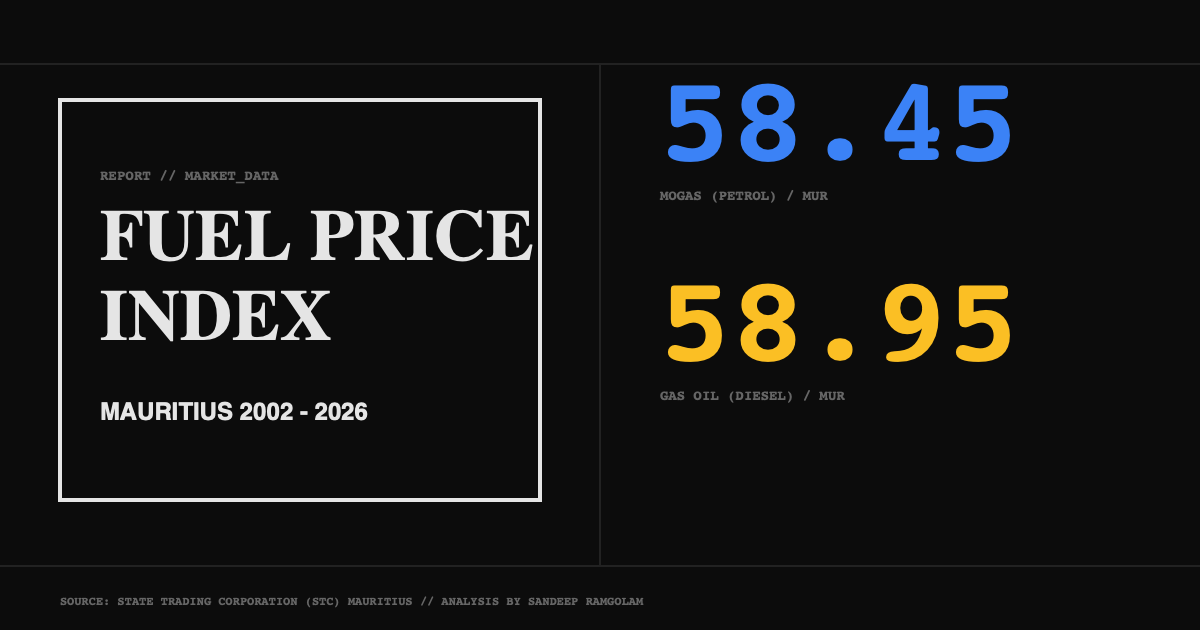
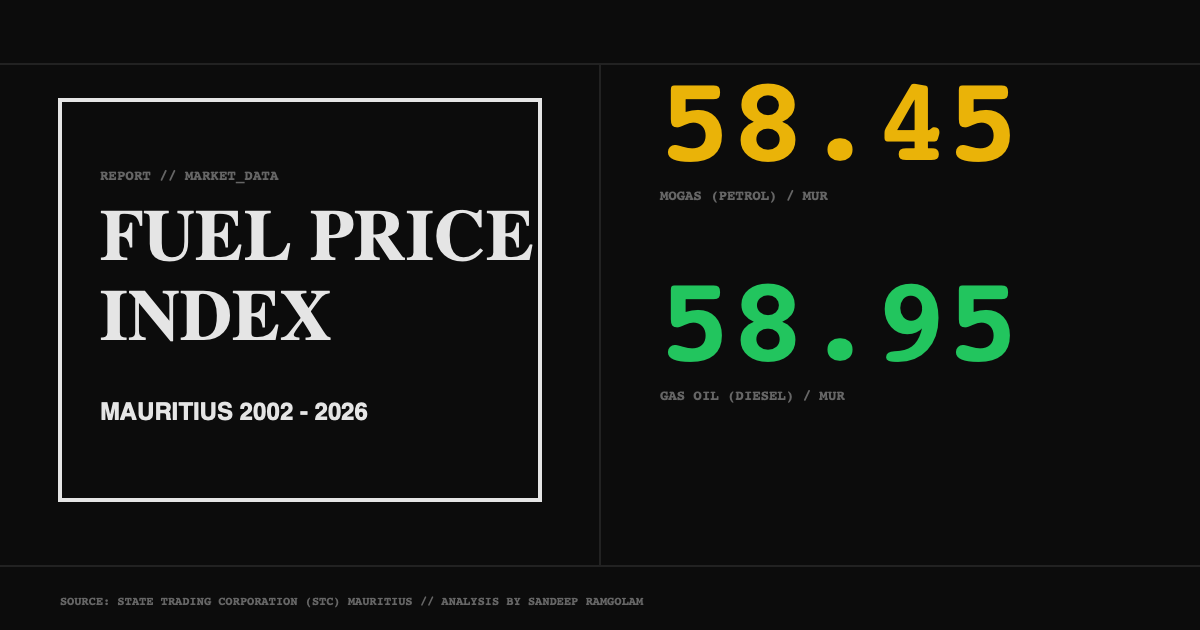
Standardize fuel colors for Mauritius
- Update Mogas (Petrol) to Yellow (#eab308) and Gas Oil (Diesel) to Green (#22c55e) to match local pump standards.
- Reassign Brent Crude to Blue (#2563eb) to maintain visual contrast.
- Synchronize colors across global styles, dark mode, and social OG images.

diff --git a/app/app.vue b/app/app.vue
@@ -97,11 +97,11 @@ function applyTheme() {
   --row-hover: #fcfcfc;
   --active-btn-bg: #111111;
   --active-btn-text: #ffffff;
-  --petrol-color: #2563eb;
-  --diesel-color: #d97706;
+  --petrol-color: #eab308;
+  --diesel-color: #22c55e;
   --up-color: #dc2626;
   --down-color: #16a34a;
-  --brent-color: #ef4444;
+  --brent-color: #2563eb;
   --neutral-color: #444444;
   --radius: 0px;
   --radius-lg: 0px;
@@ -122,9 +122,9 @@ html.dark {
   --row-hover: #161616;
   --active-btn-bg: #e5e5e5;
   --active-btn-text: #0a0a0a;
-  --petrol-color: #3b82f6;
-  --diesel-color: #fbbf24;
-  --brent-color: #f87171;
+  --petrol-color: #facc15;
+  --diesel-color: #4ade80;
+  --brent-color: #60a5fa;
   --up-color: #f87171;
   --down-color: #4ade80;
   color-scheme: dark;
